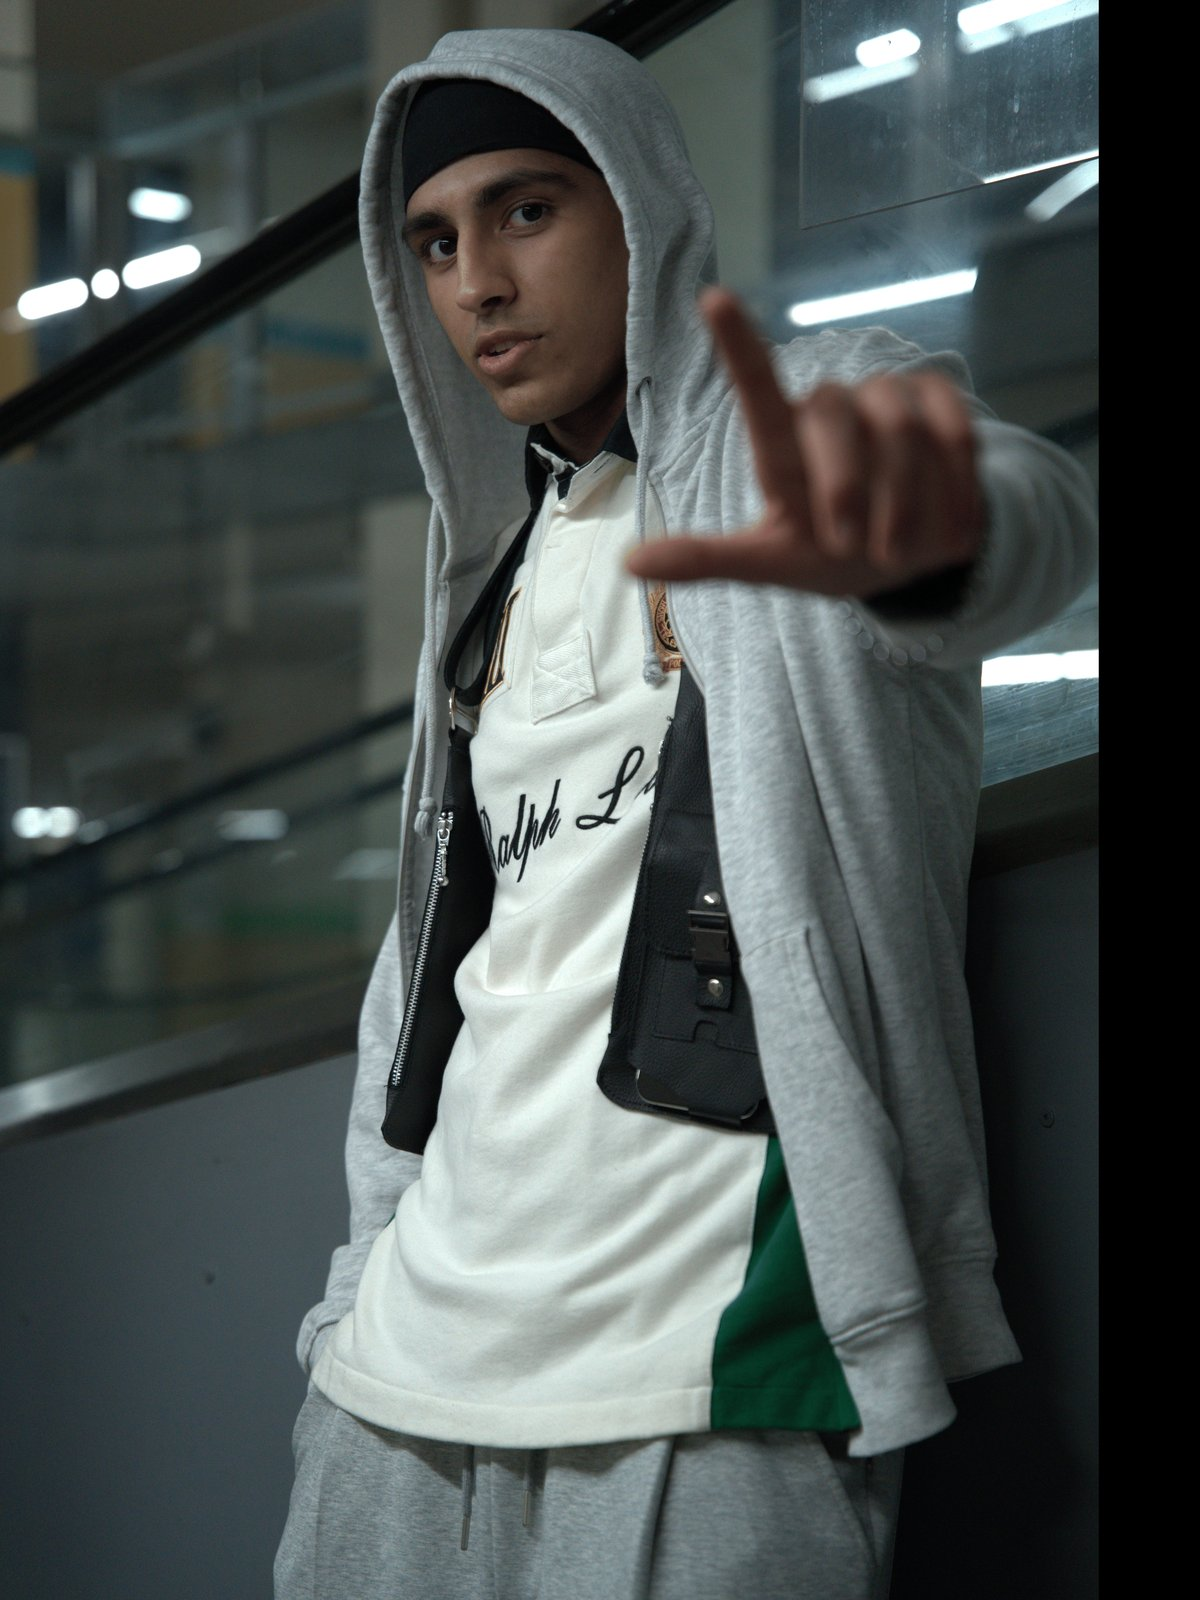
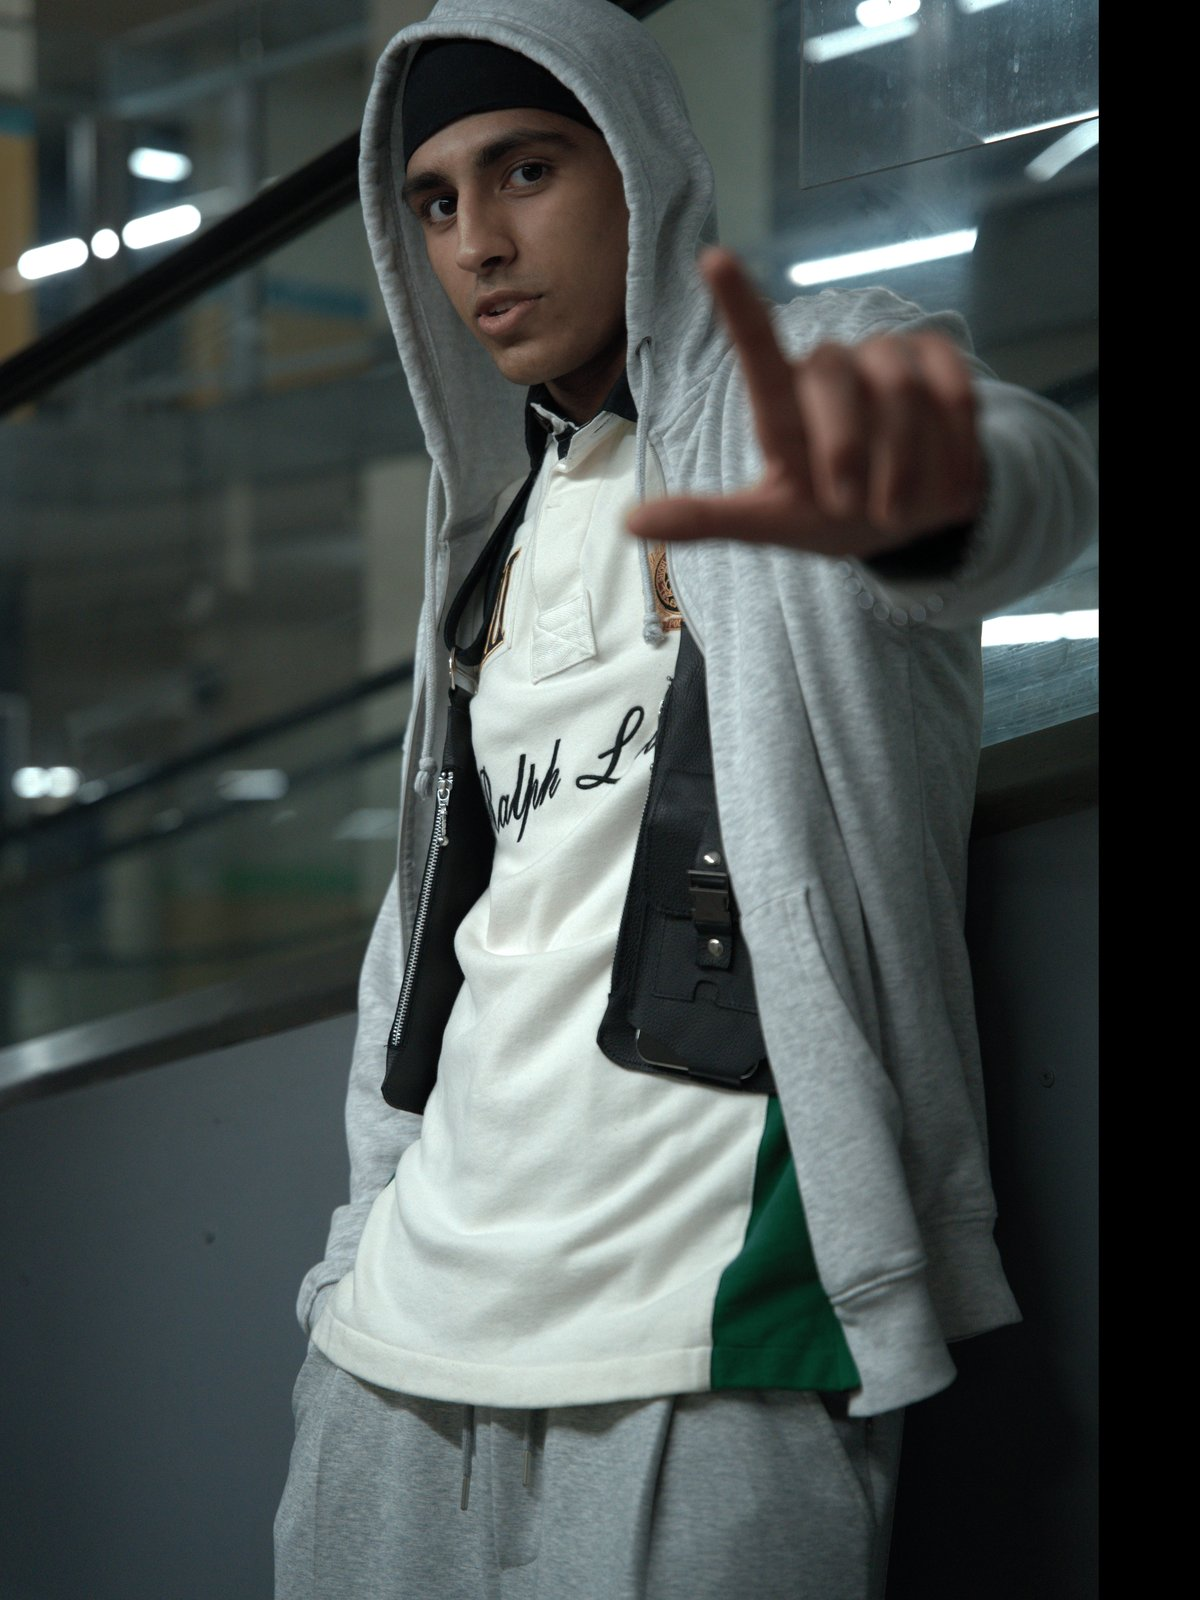
Fix shawn image dark bars: top-crop, dark fp background, cache bust
- Cropped entirely from top to remove dark ceiling/escalator area
- Changed .fp background from light (#faf9f6) to dark (#1a1a18) so
  any sub-pixel rendering gaps blend with dark image edges
- Added ?v=3 cache buster to force browsers to load new images

https://claude.ai/code/session_0182Spp68HmVwBKYb3o2C6jR

diff --git a/index.html b/index.html
@@ -201,7 +201,7 @@ h4{font-family:var(--fd);font-weight:500;font-size:16px;color:var(--w)}
 .lb-flip-wrap{position:relative;display:flex;align-items:center;justify-content:center;padding:0 10px;width:100%;flex:1;min-height:0;touch-action:none}
 #lookbookFlip{visibility:hidden}
 #lookbookFlip.ready{visibility:visible}
-.fp{background:#faf9f6;overflow:hidden;position:relative}
+.fp{background:#1a1a18;overflow:hidden;position:relative}
 .fp::before{content:'';position:absolute;inset:0;background:repeating-linear-gradient(0deg,transparent,transparent 3px,rgba(0,0,0,.006) 3px,rgba(0,0,0,.006) 4px);pointer-events:none;z-index:1}
 .fp-num{position:absolute;bottom:16px;font-family:var(--fd);font-size:10px;color:var(--tm);letter-spacing:2px;z-index:2}
 .fp:nth-child(odd) .fp-num{right:22px}.fp:nth-child(even) .fp-num{left:22px}
@@ -792,8 +792,8 @@ h4{font-family:var(--fd);font-weight:500;font-size:16px;color:var(--w)}
 <div class="fp fp-img"><div class="fi-area"><img loading="lazy" src="yankees.JPG" alt="Lookbook 9"></div></div>
 <div class="fp fp-img"><div class="fi-area"><img loading="lazy" src="DSC03213.JPG" alt="Lookbook 10"></div></div>
 <div class="fp fp-img"><div class="fi-area"><img loading="lazy" src="DSC03215.JPG" alt="Lookbook 11"></div></div>
-<div class="fp fp-img"><div class="fi-area"><img loading="lazy" src="shawn1.JPG" alt="Lookbook 12"></div></div>
-<div class="fp fp-img"><div class="fi-area"><img loading="lazy" src="shawn2.JPG" alt="Lookbook 13"></div></div>
+<div class="fp fp-img"><div class="fi-area"><img loading="lazy" src="shawn1.JPG?v=3" alt="Lookbook 12"></div></div>
+<div class="fp fp-img"><div class="fi-area"><img loading="lazy" src="shawn2.JPG?v=3" alt="Lookbook 13"></div></div>
 <div class="fp fp-back"><h2>Goldy Brown</h2><div class="bk-line"></div><p>Handcrafted in Vancouver, Canada</p><div class="bk-email" id="lbEmail"></div></div>
 </div>
 <button class="lb-nav lb-next" onclick="if(window.LB)LB.flipNext()"><svg viewBox="0 0 24 24" fill="none" stroke="currentColor" stroke-width="1.5"><path d="M9 18l6-6-6-6"/></svg></button>
@@ -812,8 +812,8 @@ h4{font-family:var(--fd);font-weight:500;font-size:16px;color:var(--w)}
 <div class="lb-thumb" onclick="lbGoTo(9)"><img loading="lazy" src="yankees.JPG" alt="9"></div>
 <div class="lb-thumb" onclick="lbGoTo(10)"><img loading="lazy" src="DSC03213.JPG" alt="10"></div>
 <div class="lb-thumb" onclick="lbGoTo(11)"><img loading="lazy" src="DSC03215.JPG" alt="11"></div>
-<div class="lb-thumb" onclick="lbGoTo(12)"><img loading="lazy" src="shawn1.JPG" alt="12"></div>
-<div class="lb-thumb" onclick="lbGoTo(13)"><img loading="lazy" src="shawn2.JPG" alt="13"></div>
+<div class="lb-thumb" onclick="lbGoTo(12)"><img loading="lazy" src="shawn1.JPG?v=3" alt="12"></div>
+<div class="lb-thumb" onclick="lbGoTo(13)"><img loading="lazy" src="shawn2.JPG?v=3" alt="13"></div>
 <div class="lb-thumb" onclick="lbGoTo(14)"><div class="lb-thumb-cover">Back</div></div>
 </div>
 </div>
